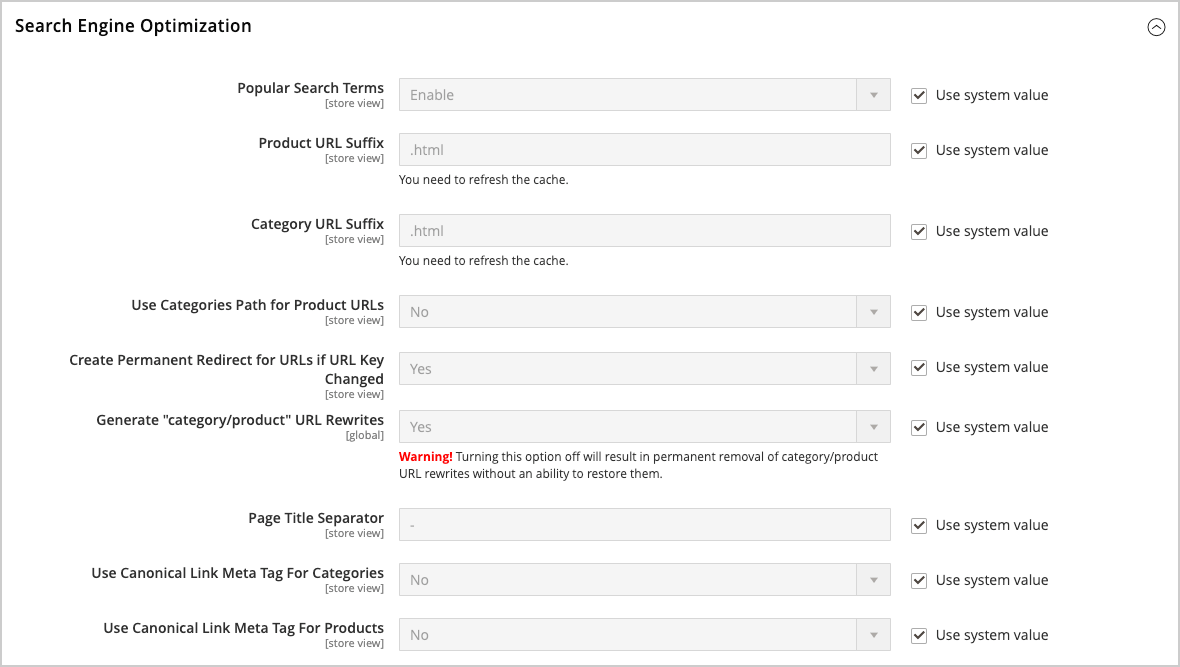
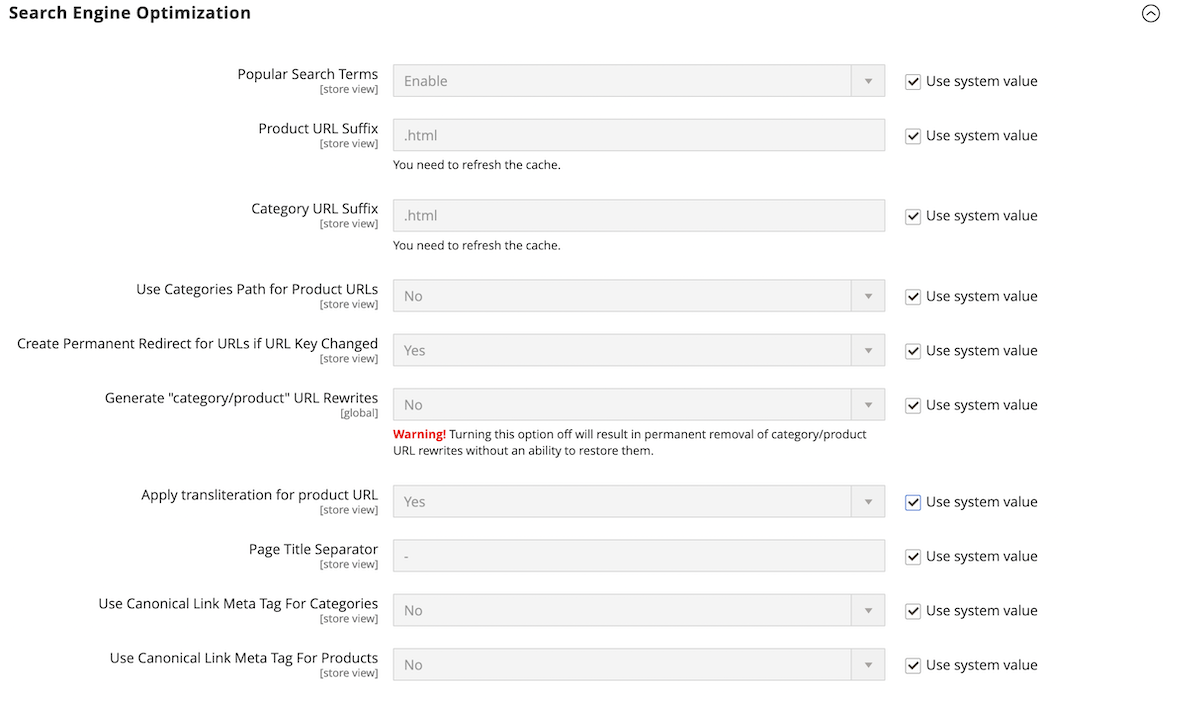
ACP2E-2848: [Documentation] Introduced new setting to be able to specify if transliteration should be applied to product URL

diff --git a/help/configuration-reference/catalog/catalog.md b/help/configuration-reference/catalog/catalog.md
@@ -200,17 +200,18 @@ feature: Configuration, Catalog Management
 
 <!-- [Search Engine Optimization](https://docs.magento.com/user-guide/catalog/product-search-engine-optimization.html) -->
 
-|Field|[Scope](../../getting-started/websites-stores-views.md#scope-settings)|Description|
-|--- |--- |--- |
-|[!UICONTROL Popular Search Terms]|Store View|Determines if _Popular Search Terms_ is implemented in the store. This setting does not apply to stores that use [Live Search](https://experienceleague.adobe.com/docs/commerce-merchant-services/live-search/overview.html). Options: `Enable` / `Disable`|
-|[!UICONTROL Product URL Suffix]|Store View|Determines if a suffix, such as html or htm, is applied to product URLs. If used, do not include a period before the suffix, because it is applied automatically.|
-|[!UICONTROL Category URL Suffix]|Store View|Determines if a suffix, such as html or htm, is applied to category URLs. If used, do not include a period before the suffix, because it is applied automatically.|
-|[!UICONTROL Use Categories Path for Product URLs]|Store View|Determines if category paths are included in product URLs. Doing so can cause multiple URLs to point to the same page, which might impact search rank. To learn more, see [Canonical meta tag](../../merchandising-promotions/meta-data.md#canonical-meta-tag).|
-|[!UICONTROL Create Permanent Redirect for URLs if URL Key Changed]|Store View|Determines if a permanent redirect is created automatically whenever a URL key changes. When implemented, the Create Custom Redirect for old URL checkbox below the product URL Key field is selected by default. Options: `Yes` / `No`|
-|[!UICONTROL Generate "category/product" URL Rewrites]|Global|Determines if Adobe Commerce generates data and saves it into rewrite tables when a user saves a category that contains many assigned products. Options: `Yes` / `No` <br/><br/>**_Important:_** Saving this generated data into a URL rewrites table can degrade performance. See [Automatic Product Redirects](../../merchandising-promotions/url-redirect-product-automatic.md) for more information.|
-|[!UICONTROL Page Title Separator]|Store View|Identifies the character that separates the category name and subcategory in the browser title bar.|
-|[!UICONTROL Use Canonical Link Meta Tag for Categories]|Store View|If there are multiple URLs that point to the same category page, this option uses a canonical meta tag to identify the category URL that search engines should index. The URL includes a full name to the category using the meta tag. This reduces duplicate content and improves SEO. Options: `Yes` / `No`|
-|[!UICONTROL Use Canonical Link Meta Tag for Products]|Store View|If there are multiple URLs that point to the same product page, this option uses a canonical meta tag to identify the product URL that search engines should index. The URL includes a full name to the product using the meta tag. This reduces duplicate content and improves SEO. Options: `Yes` / `No`|
+|Field|[Scope](../../getting-started/websites-stores-views.md#scope-settings)| Description                                                                                                                                                                                                                                                                                                                                                                                              |
+|--- |--- |----------------------------------------------------------------------------------------------------------------------------------------------------------------------------------------------------------------------------------------------------------------------------------------------------------------------------------------------------------------------------------------------------------|
+|[!UICONTROL Popular Search Terms]|Store View| Determines if _Popular Search Terms_ is implemented in the store. This setting does not apply to stores that use [Live Search](https://experienceleague.adobe.com/docs/commerce-merchant-services/live-search/overview.html). Options: `Enable` / `Disable`                                                                                                                                              |
+|[!UICONTROL Product URL Suffix]|Store View| Determines if a suffix, such as html or htm, is applied to product URLs. If used, do not include a period before the suffix, because it is applied automatically.                                                                                                                                                                                                                                        |
+|[!UICONTROL Category URL Suffix]|Store View| Determines if a suffix, such as html or htm, is applied to category URLs. If used, do not include a period before the suffix, because it is applied automatically.                                                                                                                                                                                                                                       |
+|[!UICONTROL Use Categories Path for Product URLs]|Store View| Determines if category paths are included in product URLs. Doing so can cause multiple URLs to point to the same page, which might impact search rank. To learn more, see [Canonical meta tag](../../merchandising-promotions/meta-data.md#canonical-meta-tag).                                                                                                                                          |
+|[!UICONTROL Create Permanent Redirect for URLs if URL Key Changed]|Store View| Determines if a permanent redirect is created automatically whenever a URL key changes. When implemented, the Create Custom Redirect for old URL checkbox below the product URL Key field is selected by default. Options: `Yes` / `No`                                                                                                                                                                  |
+|[!UICONTROL Generate "category/product" URL Rewrites]|Global| Determines if Adobe Commerce generates data and saves it into rewrite tables when a user saves a category that contains many assigned products. Options: `Yes` / `No` <br/><br/>**_Important:_** Saving this generated data into a URL rewrites table can degrade performance. See [Automatic Product Redirects](../../merchandising-promotions/url-redirect-product-automatic.md) for more information. |
+|[!UICONTROL Apply transliteration for product URL]|Store View| Determines if transliteration should be applied or not when creating a product URL. Options: `Yes` / `No`                                                                                                                                                                                                                                                                                                |
+|[!UICONTROL Page Title Separator]|Store View| Identifies the character that separates the category name and subcategory in the browser title bar.                                                                                                                                                                                                                                                                                                      |
+|[!UICONTROL Use Canonical Link Meta Tag for Categories]|Store View| If there are multiple URLs that point to the same category page, this option uses a canonical meta tag to identify the category URL that search engines should index. The URL includes a full name to the category using the meta tag. This reduces duplicate content and improves SEO. Options: `Yes` / `No`                                                                                            |
+|[!UICONTROL Use Canonical Link Meta Tag for Products]|Store View| If there are multiple URLs that point to the same product page, this option uses a canonical meta tag to identify the product URL that search engines should index. The URL includes a full name to the product using the meta tag. This reduces duplicate content and improves SEO. Options: `Yes` / `No`                                                                                               |
 
 {:style="table-layout:auto"}
 
